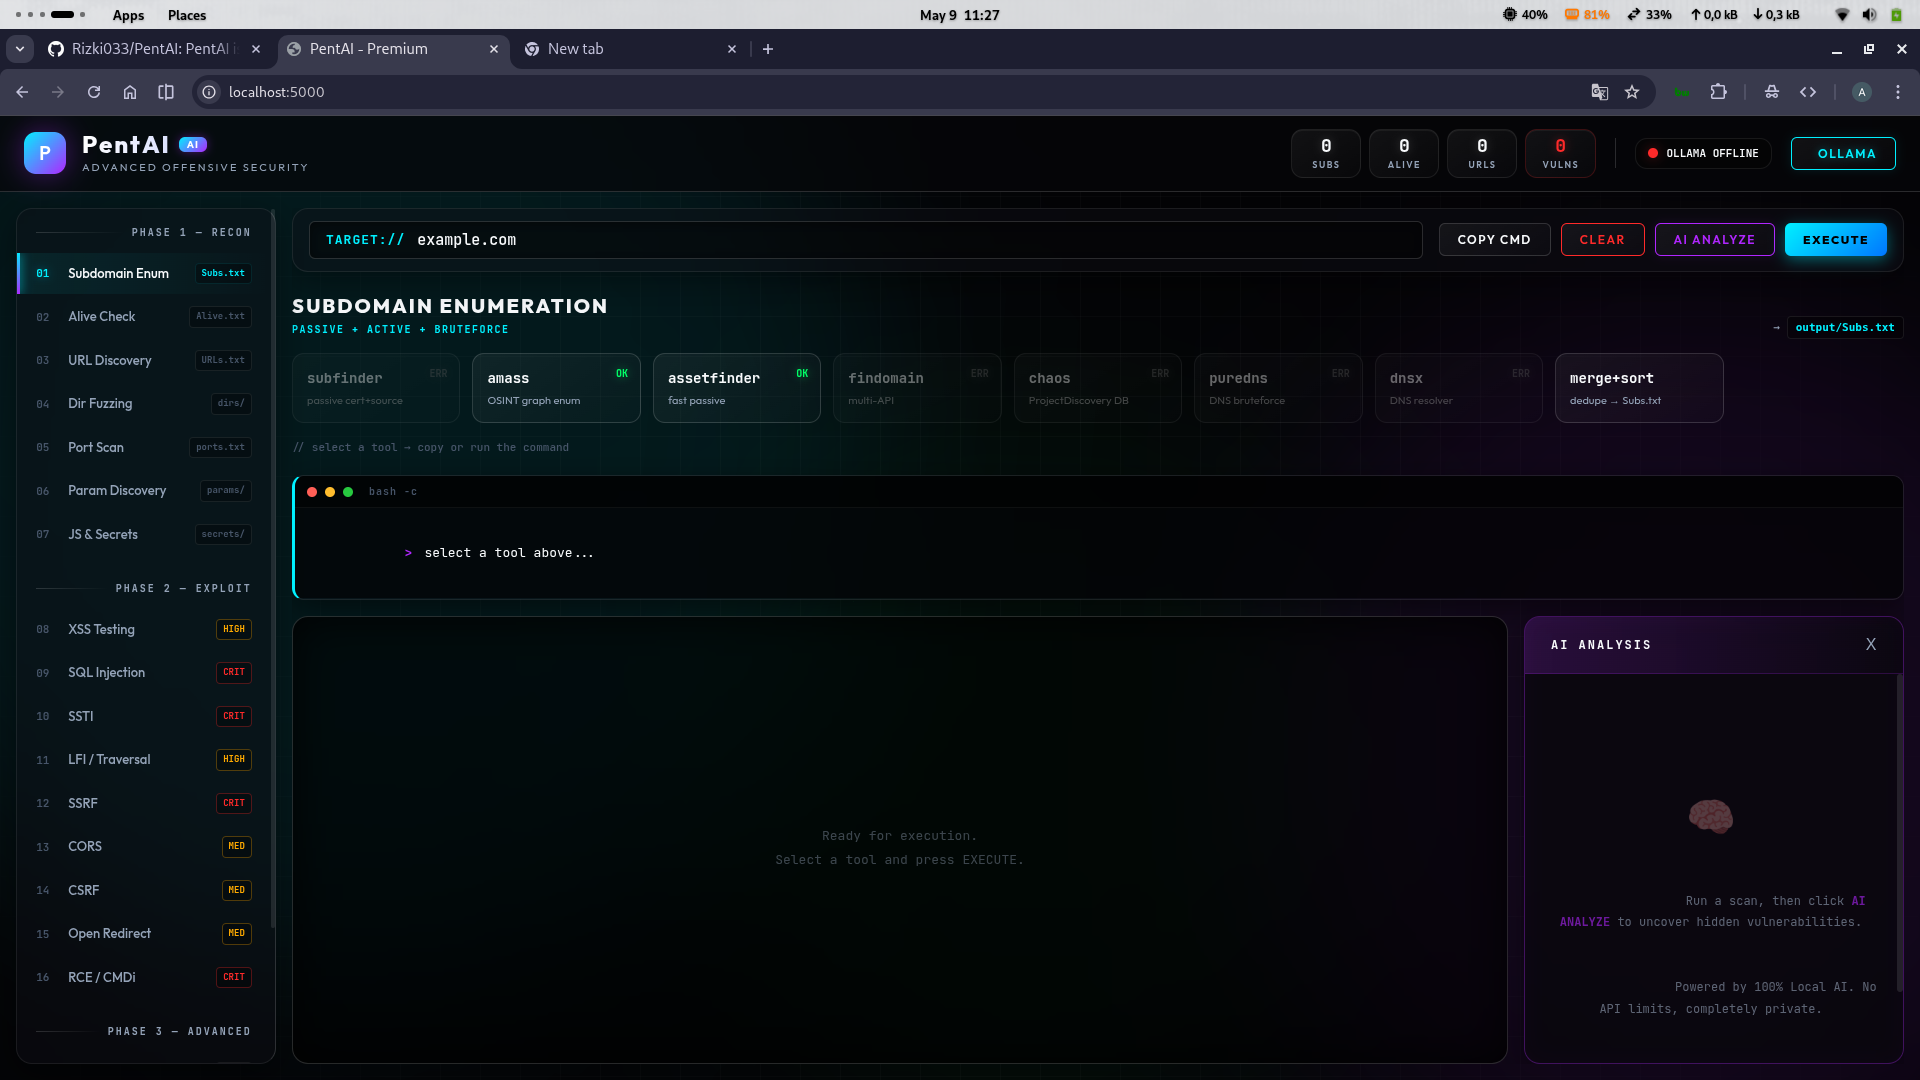
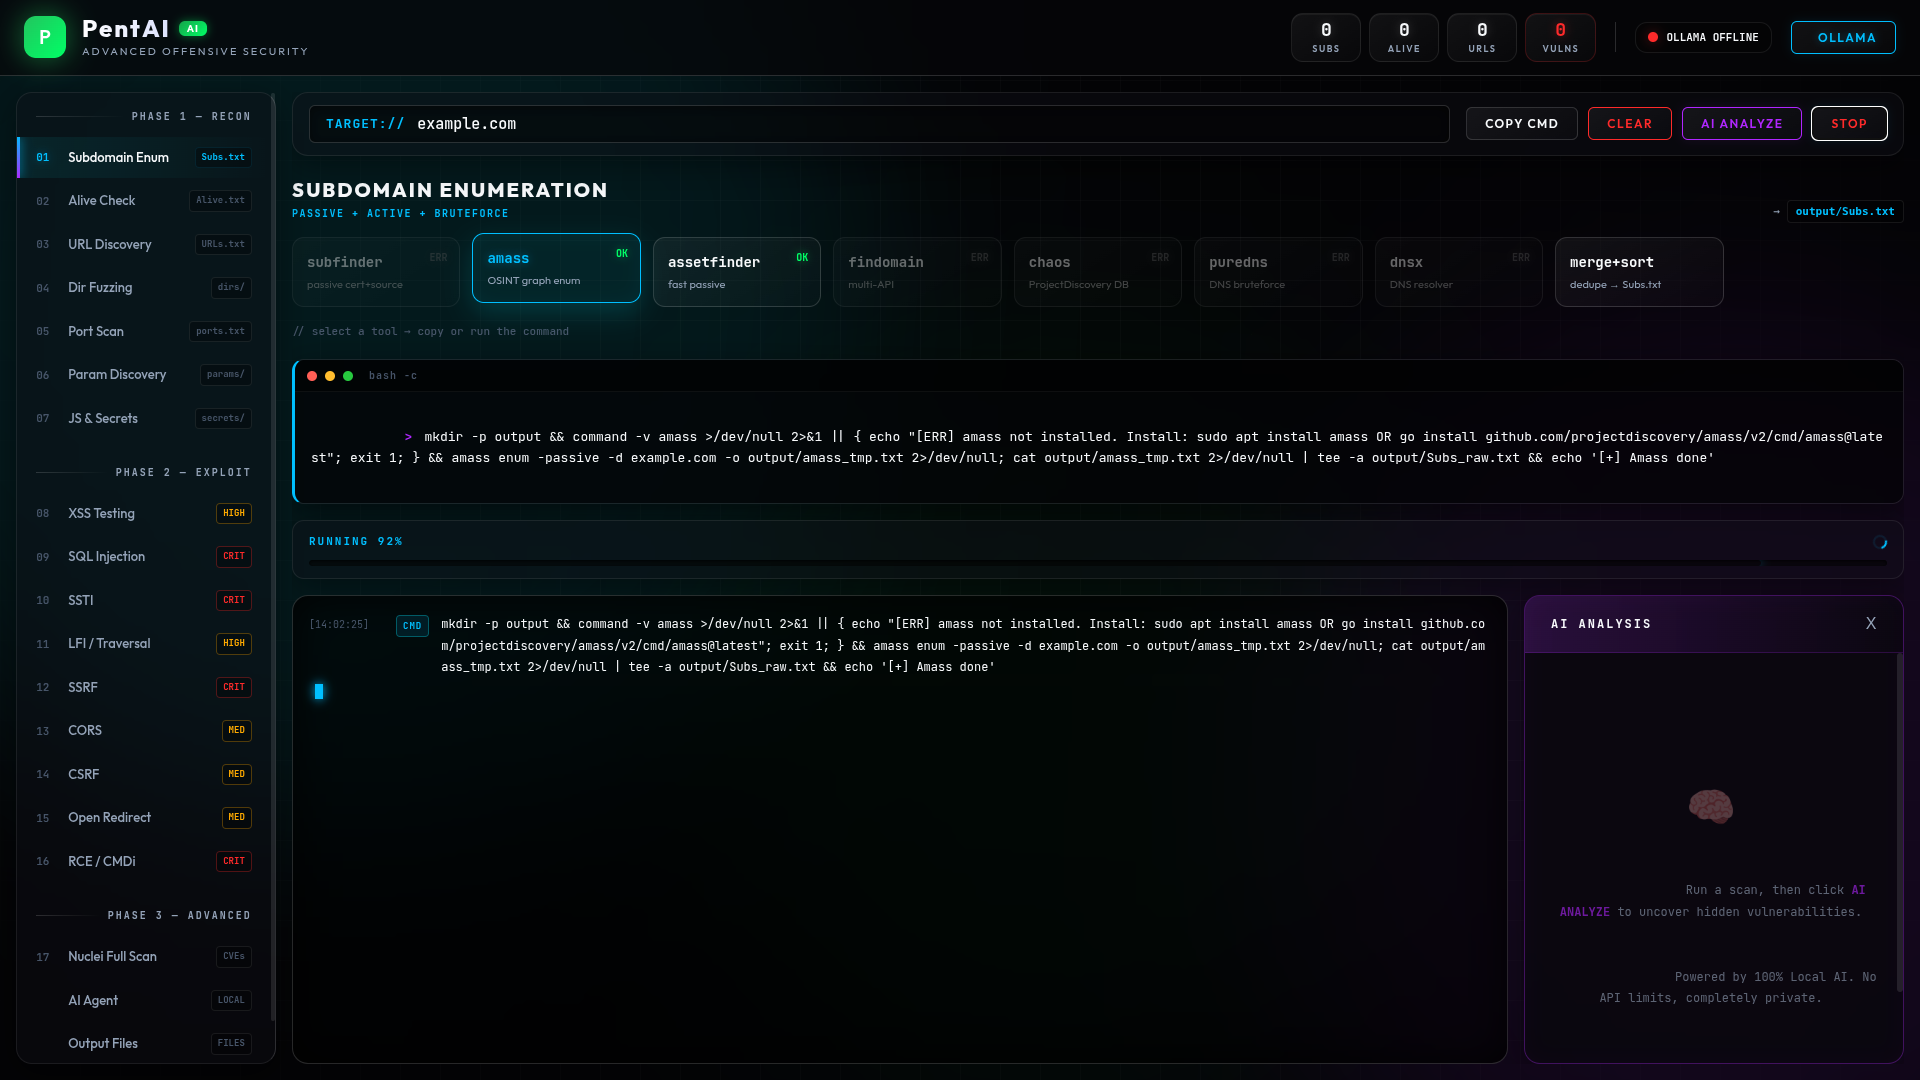
Modified

diff --git a/static/css/style.css b/static/css/style.css
@@ -116,16 +116,16 @@ body {
 .logo-wrapper { display: flex; align-items: center; gap: 1rem; }
 .logo-mark {
   width: 42px; height: 42px;
-  background: var(--grad-primary);
+  background: linear-gradient(135deg, #22c55e, #00ff66);
   border-radius: var(--r-md);
   display: flex; align-items: center; justify-content: center;
   font-family: 'JetBrains Mono', monospace; font-size: 20px; font-weight: 800; color: #fff;
-  box-shadow: 0 0 20px var(--neon-cyan-glow);
+  box-shadow: 0 0 20px var(--neon-green-glow);
   animation: logoPulse 4s infinite alternate;
 }
 @keyframes logoPulse {
-  0% { box-shadow: 0 0 15px var(--neon-cyan-glow); }
-  100% { box-shadow: 0 0 30px var(--neon-purple-glow); }
+  0% { box-shadow: 0 0 15px var(--neon-green-glow); }
+  100% { box-shadow: 0 0 30px rgba(34, 197, 94, 0.55); }
 }
 
 .logo-info { display: flex; flex-direction: column; }
@@ -136,9 +136,9 @@ body {
   display: flex; align-items: center; gap: 8px; line-height: 1.1;
 }
 .ai-badge {
-  font-size: 10px; font-weight: 700; background: var(--grad-primary);
+  font-size: 10px; font-weight: 700; background: linear-gradient(135deg, #16a34a, #00ff66);
   padding: 2px 8px; border-radius: var(--r-sm); letter-spacing: 1px;
-  -webkit-text-fill-color: #fff; box-shadow: 0 0 10px var(--neon-purple-glow);
+  -webkit-text-fill-color: #fff; box-shadow: 0 0 10px var(--neon-green-glow);
 }
 .logo-sub { font-size: 11px; color: var(--text-muted); letter-spacing: 2px; text-transform: uppercase; margin-top: 2px; }
 